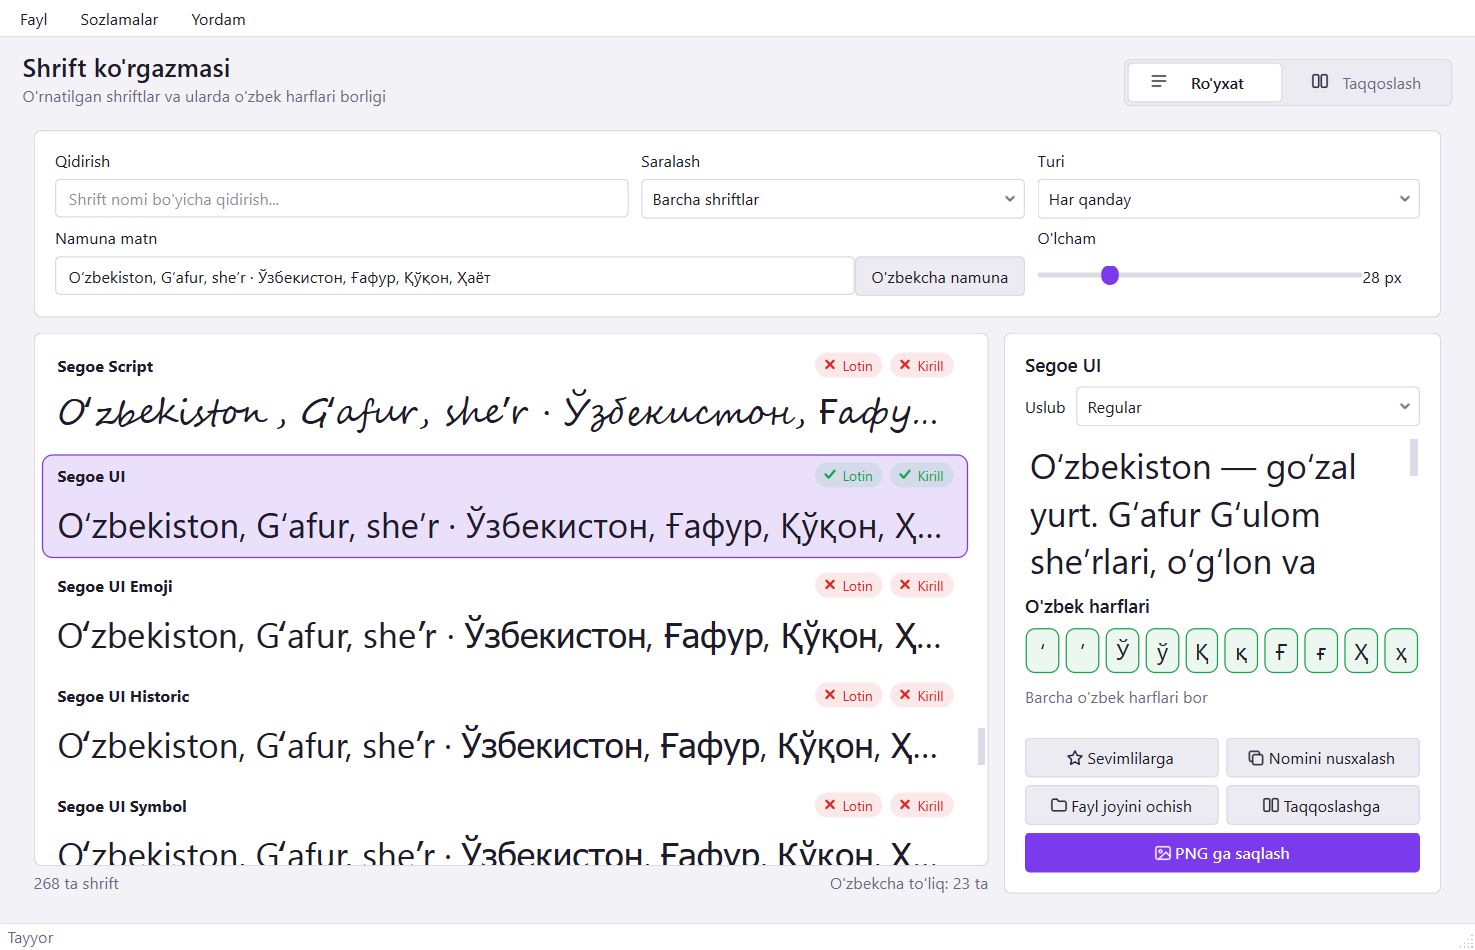
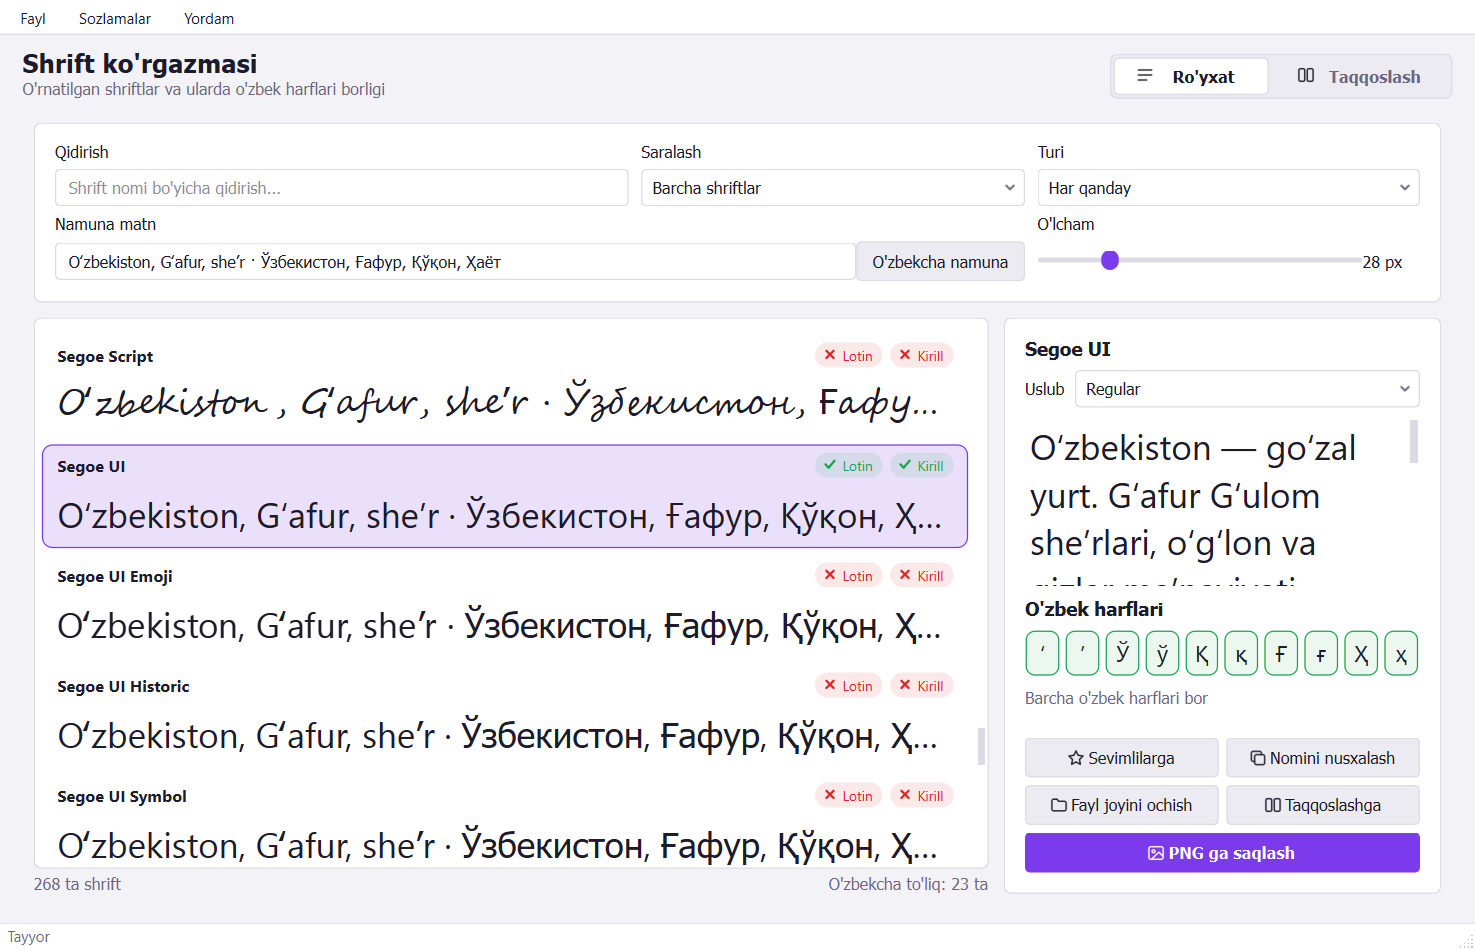
Shrift ko'rgazmasi v1.0.1

diff --git a/tests/test_deep_scenarios.py b/tests/test_deep_scenarios.py
@@ -1,0 +1,89 @@
+"""Chuqur ssenariylar: barcha o'rnatilgan shriftlar (faqat o'qish), PNG eksport, buzilgan sozlamalar."""
+import json
+import sys
+from pathlib import Path
+
+import pytest
+
+sys.path.insert(0, str(Path(__file__).resolve().parents[1]))
+
+
+@pytest.fixture()
+def sandbox(tmp_path, monkeypatch):
+    monkeypatch.setenv("APPDATA", str(tmp_path / "appdata"))
+    return tmp_path
+
+
+def _win():
+    from PySide6.QtWidgets import QApplication
+    from uzkit import app as appmod, i18n
+    from uzkit.settings import Settings
+    appmod.META = appmod.load_meta()
+    appmod.SETTINGS = Settings(appmod.META["slug"])
+    QApplication.instance() or QApplication([])
+    i18n.set_language("uz")
+    from shrift_korgazmasi.window import MainWindow
+    return MainWindow()
+
+
+def test_every_installed_family_previews(sandbox):
+    """Har bir o'rnatilgan shrift uchun tekshiruv, tafsilot paneli va rasm chizish xatosiz."""
+    from shrift_korgazmasi import fonts as F
+    from shrift_korgazmasi.render import render_preview
+    w = _win()
+    b = w.browse
+    while b.todo:
+        b._check_batch()
+    fams = F.families()
+    assert fams
+    for fam in fams:
+        lat, cyr = F.check_uzbek(fam)
+        assert lat in (True, False, None) and cyr in (True, False, None)
+        b.select_family(fam)
+        assert b.detail.fam == fam
+        assert not render_preview(fam, "Oʻzbek Ўў", 16, width=300).isNull()
+    w.close()
+
+
+def test_png_export_unicode_path(sandbox, monkeypatch):
+    from PySide6.QtWidgets import QFileDialog
+    w = _win()
+    out = sandbox / "Ўзбек papka 'test'"
+    out.mkdir()
+    target = out / "natija ў.png"
+    monkeypatch.setattr(QFileDialog, "getSaveFileName", staticmethod(lambda *a, **k: (str(target), "PNG")))
+    b = w.browse
+    b.select_family(b.model.items[0])
+    b.detail._export()
+    assert target.stat().st_size > 1000
+    target.unlink()
+    w.compare.png.click()
+    assert target.exists()
+    w.close()
+
+
+def test_compare_unknown_and_empty_family(sandbox):
+    w = _win()
+    c = w.compare
+    c.count.setValue(4)
+    c.slots[0].combo.setCurrentText("NoSuchFontXYZ")
+    c.slots[1].combo.setCurrentText("")
+    c.text.setPlainText("Ғ" * 5000)
+    c.size.setValue(72)
+    c.text.setPlainText("")
+    w.close()
+
+
+def test_corrupt_settings_and_cache(sandbox):
+    from uzkit.paths import data_dir
+    d = data_dir("shrift-korgazmasi")
+    (d / "settings.json").write_text(json.dumps({"size": "abc", "favorites": 5, "compare": 3,
+                                                 "compare_count": "x", "preview_text": 7}), encoding="utf-8")
+    (d / "uzbek_support.json").write_text('{"v": 2, "fonts": {"Arial": [true], "X": 5}}', encoding="utf-8")
+    w = _win()
+    assert w.browse.s.size == 28
+    assert "Arial" not in w.browse.cache.data
+    w.close()
+    (d / "settings.json").write_text("[1, 2]", encoding="utf-8")
+    w = _win()
+    w.close()

diff --git a/shrift_korgazmasi/window.py b/shrift_korgazmasi/window.py
@@ -28,6 +28,15 @@ OK_COLOR = QColor("#16a34a")
 BAD_COLOR = QColor("#dc2626")
 
 
+def _int_setting(value, default: int, lo: int, hi: int) -> int:
+    """Sozlamadagi butun sonni xavfsiz o'qish (buzilgan qiymat bo'lsa standart)."""
+    try:
+        v = int(value)
+    except (TypeError, ValueError):
+        return default
+    return max(lo, min(hi, v))
+
+
 def _accent() -> QColor:
     return QColor(appmod.META.get("accent", "#7c3aed"))
 
@@ -314,9 +323,11 @@ class BrowsePage(QWidget):
         self.win = win
         st = win.settings
         self.s = State()
-        self.s.size = int(st.get("size", 28))
-        self.s.text = st.get("preview_text", F.SHORT_SAMPLE) or F.SHORT_SAMPLE
-        self.s.favorites = set(st.get("favorites", []))
+        self.s.size = _int_setting(st.get("size"), 28, 10, 96)
+        txt = st.get("preview_text")
+        self.s.text = txt if isinstance(txt, str) and txt else F.SHORT_SAMPLE
+        favs = st.get("favorites")
+        self.s.favorites = {f for f in favs if isinstance(f, str)} if isinstance(favs, list) else set()
         self.cache = F.SupportCache(data_dir(appmod.META["slug"]) / "uzbek_support.json")
         self.all_fams = F.families()
         for fam in self.all_fams:
@@ -737,7 +748,8 @@ class ComparePage(QWidget):
         self.grid.setContentsMargins(0, 0, 0, 0)
         self.grid.setSpacing(12)
         fams = browse.all_fams
-        saved = win.settings.get("compare", [])
+        saved = win.settings.get("compare")
+        saved = [x for x in saved if isinstance(x, str)] if isinstance(saved, list) else []
         defaults = [f for f in ("Segoe UI", "Times New Roman", "Arial", "Georgia", "Calibri", "Consolas")
                     if f in fams]
         self.slots = []
@@ -748,7 +760,7 @@ class ComparePage(QWidget):
             s.combo.setCurrentText(pick)
             s.combo.currentTextChanged.connect(self.refresh)
             self.slots.append(s)
-        self.count.setValue(int(win.settings.get("compare_count", 2 if not SCREENSHOT else 4)))
+        self.count.setValue(_int_setting(win.settings.get("compare_count"), 2, 2, 4))
         if SCREENSHOT:
             self.count.setValue(4)
         lay.addWidget(self.grid_w, 1)
@@ -827,6 +839,8 @@ class MainWindow(BaseMainWindow):
         self._nav.setObjectName("Segment")
         self._nav.setDrawBase(False)
         self._nav.setExpanding(False)
+        self._nav.setUsesScrollButtons(False)
+        self._nav.setElideMode(Qt.ElideNone)
         self._nav.addTab(tr("view_list"))
         self._nav.addTab(tr("view_compare"))
         head.addWidget(self._nav, 0, Qt.AlignBottom)

diff --git a/shrift_korgazmasi/fonts.py b/shrift_korgazmasi/fonts.py
@@ -146,7 +146,8 @@ class SupportCache:
         try:
             raw = json.loads(self.path.read_text(encoding="utf-8"))
             if raw.get("v") == self.VERSION:
-                self.data = {k: tuple(v) for k, v in raw.get("fonts", {}).items()}
+                self.data = {k: tuple(v) for k, v in raw.get("fonts", {}).items()
+                             if isinstance(v, (list, tuple)) and len(v) == 2}
         except Exception:
             self.data = {}
 

diff --git a/uzkit/settings.py b/uzkit/settings.py
@@ -18,6 +18,8 @@ class Settings:
         try:
             if self.path.exists():
                 self._data = json.loads(self.path.read_text(encoding="utf-8"))
+                if not isinstance(self._data, dict):
+                    raise ValueError("settings root is not an object")
         except Exception:
             # Buzilgan faylni zaxiraga olib, toza boshlaymiz
             try:

diff --git a/README.md b/README.md
@@ -5,7 +5,7 @@
 
 <p align="center">
   <a href="https://github.com/eduhakimov/shrift-korgazmasi/releases/latest/download/ShriftKorgazmasi.exe"><img src="https://img.shields.io/badge/Yuklab_olish-ShriftKorgazmasi.exe-2ea44f?style=for-the-badge&logo=windows" alt="download"></a><br>
-  <img src="https://img.shields.io/badge/version-1.0.0-blue" alt="version">
+  <img src="https://img.shields.io/badge/version-1.0.1-blue" alt="version">
   <img src="https://img.shields.io/badge/Windows-10%20%7C%2011-0078D6?logo=windows" alt="windows">
   <img src="https://img.shields.io/badge/til-UZ%20%7C%20RU%20%7C%20EN-orange" alt="languages">
   <img src="https://img.shields.io/badge/license-All%20rights%20reserved-red" alt="license">
